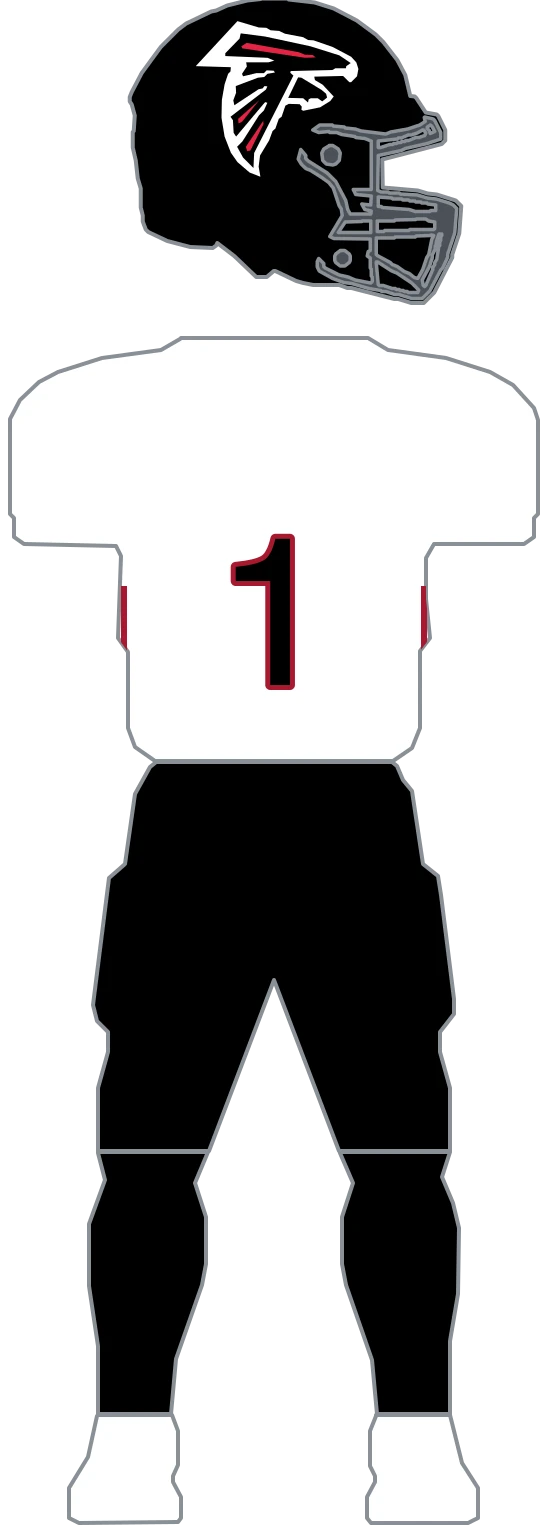
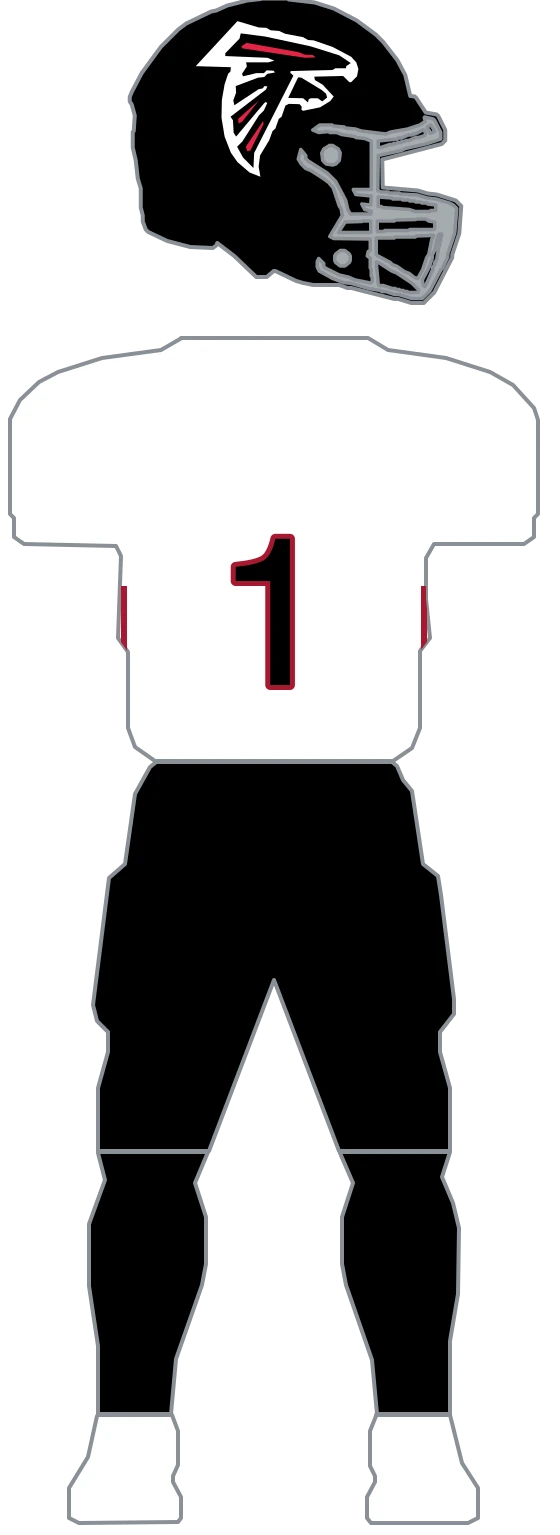
feat(uniforms): migrate Falcons to composable parts and set its silver facemask (#669)
All three Atlanta kits wear the same matte-black helmet (with the fixed
white/red/black falcon decal) and the same plain black pants; only the jersey
differs. The parts model makes each kit a combination instead of spelling every
layer out three times: 1 helmet (H1), 3 jerseys (J1 black, J2 white, J3 red),
1 pants (P1 black), with away's black shell/pants and red-alt's number body all
reaching the same palette entries the flat form reached through per-kit literals
and shifting primary/secondary/accent slots.

The migration's parity gate proved all 9 falcons rasters (3 kits x 2 variants)
byte-identical against the flat definition, then the flat definition and its
builder helpers were deleted and the team removed from MIGRATED, per the
one-time-proof lifecycle (depth#660).

Facemask follows the parts migration per phase order: the 2020 "back to black"
redesign's matte black helmet carries a silver/chrome cage, confirmed by the
GUD composite (which renders it as a mid-grey, as it faithfully renders
Seattle's and Cincinnati's black cages) and the atlantafalcons.com unveiling
("satin black... new silver/chrome facemask"). Set to Falcons silver
#A5ACAF (PMS 877 C). Only the three -full rasters move, and the change is
confined to the helmet region (verified pixel-diffed).

diff --git a/lib/uniforms/teams/falcons.ts b/lib/uniforms/teams/falcons.ts
@@ -1,17 +1,7 @@
-import type { ColorRef, TeamUniformDefinition, UniformLayer, UniformSurface } from './types';
-
-// Atlanta's three archived kits, redrawn from the Gridiron Uniform Database 2025 composite in
-// nfl-uniform-refs/falcons. Jersey paths use the outer 588-wide mannequin space; right paths
-// mirror the left across the jersey centerline x=294 (mirroredX = 588 - x).
-//
-// No helmet decal. The falcon mark is 28x34px in the reference — comparable to Chicago's C, which
-// traced cleanly — but it is thin swooping linework rather than a solid letterform, and it shreds
-// into disconnected strokes at that size the same way Seattle's keyline did. A bare shell beats an
-// illegible trace; the rule that keeps emerging is that solid shapes trace and thin lines do not.
-//
-// Atlanta's construction is the sparest of any team done so far: no sleeve bands, no shoulder
-// yoke, no contrasting collar, and plain pants. The only geometry is a thin red stripe down each
-// side seam of the torso, so every kit strips nearly the whole generic model.
+// Atlanta's construction geometry — the side-seam piping and the falcon decal paths only. The
+// composable parts definition that consumes them lives in ./falcons.parts.ts; the former flat
+// FALCONS_UNIFORMS was deleted in the migration that proved parts render byte-identically (see
+// parts-parity.test.ts for the one-time gate).
 
 // Black is a literal on the away and red-alt kits. Atlanta's away palette resolves secondary AND
 // accent to the same red (#A71930), so no token supplies the black shell and pants those kits
@@ -22,25 +12,6 @@ export const FALCONS_BLACK = '#000000';
 // from y=208 to the jersey hem (jersey top 126, sleeve hem 189).
 export const FALCONS_SIDE_STRIPE_LEFT = 'M141,631 H147 V806 H141 Z';
 export const FALCONS_SIDE_STRIPE_RIGHT = 'M441,631 H447 V806 H441 Z';
-
-const GENERIC_STRIPPED = [
-  'generic-helmet-stripe',
-  'generic-sleeve-yoke-left',
-  'generic-sleeve-yoke-right',
-  'generic-sleeve-stripe-left',
-  'generic-sleeve-stripe-right',
-  'generic-collar',
-  'generic-pants-stripe-left',
-  'generic-pants-stripe-right',
-];
-
-function sideStripes(fill: ColorRef): UniformLayer[] {
-  const shapes: { id: string; surface: UniformSurface; d: string }[] = [
-    { id: 'falcons-side-stripe-left', surface: 'jersey', d: FALCONS_SIDE_STRIPE_LEFT },
-    { id: 'falcons-side-stripe-right', surface: 'jersey', d: FALCONS_SIDE_STRIPE_RIGHT },
-  ];
-  return shapes.map((s): UniformLayer => ({ ...s, clip: true, kind: 'fill', fill }));
-}
 
 // Provenance: contour trace of the club's mark from the GUD composite — a reproduction
 // of a third-party mark, not original geometry. The mark is NON-FREE upstream
@@ -70,61 +41,3 @@ export const FALCONS_DECAL_BODY_PATH =
   'M361.4,134.8 L409.3,141.0 L500.4,160.6 L558.1,178.7 L581.0,194.1 L572.0,200.3 L571.3,204.5 L550.4,204.5 L544.2,208.0 L460.8,210.1 L460.1,213.6 L466.3,219.2 L387.8,374.0 L386.4,404.0 L365.6,383.1 L353.7,361.5 L364.2,351.0 L397.5,298.7 L407.3,288.9 L414.2,273.6 L410.0,272.2 L407.3,275.0 L351.7,341.2 L346.8,333.6 L345.4,308.5 L340.5,301.5 L411.4,247.1 L414.2,240.8 L408.6,240.1 L404.5,245.0 L396.8,246.4 L348.2,278.5 L346.1,268.7 L351.7,253.4 L351.0,240.1 L395.4,223.4 L408.0,222.0 L414.2,215.7 L429.5,212.9 L426.7,209.4 L412.8,208.7 L407.3,214.3 L392.0,214.3 L365.6,220.6 L363.5,215.7 L373.2,201.0 L371.8,192.7 L416.3,192.7 L428.1,189.2 L414.2,183.6 L330.1,180.1 L330.1,174.5 L358.6,145.2 L360.7,135.5 Z M476.1,222.7 L482.3,223.4 L522.6,247.8 L531.7,255.4 L533.7,263.1 L524.0,270.8 L515.0,264.5 L501.1,264.5 L496.9,266.6 L495.5,272.9 L485.8,264.5 L455.9,263.8 L475.4,223.4 Z';
 export const FALCONS_DECAL_STREAKS_PATH =
   'M372.5,153.6 L476.8,172.4 L489.3,177.3 L505.2,178.0 L510.8,182.9 L489.3,183.6 L364.2,164.8 L362.1,160.6 L371.8,154.3 Z M405.9,309.9 L406.6,316.1 L380.2,369.2 L373.9,370.5 L371.1,361.5 L405.2,310.6 Z M398.2,268.0 L363.5,311.9 L356.5,314.7 L355.8,305.7 L397.5,268.7 Z';
-
-// Fixed art on the black shell; nothing here moves with the palette.
-function decal(): UniformLayer[] {
-  return (
-    [
-      ['falcons-decal-silhouette', FALCONS_DECAL_SILHOUETTE_PATH, '#FFFFFF'],
-      ['falcons-decal-body', FALCONS_DECAL_BODY_PATH, FALCONS_BLACK],
-      ['falcons-decal-streaks', FALCONS_DECAL_STREAKS_PATH, FALCONS_DECAL_RED],
-    ] as [string, string, ColorRef][]
-  ).map(([id, d, fill]) => ({
-    id,
-    surface: 'helmet' as const,
-    d,
-    clip: true,
-    kind: 'fill' as const,
-    fill,
-  }));
-}
-
-export const FALCONS_UNIFORMS: TeamUniformDefinition = {
-  teamId: 'falcons',
-  kits: {
-    // ESPN gives Atlanta color=red / alternateColor=black. `isNeutral(black)` is true, so
-    // toTeamColors keeps primary as the red — and the generic model paints helmet, jersey AND
-    // pants from primary, rendering Atlanta head-to-toe red. The reference home kit is black on
-    // black. Pinning all three bodies to secondary fixes it while primary still supplies the red
-    // piping and numeral keyline. Same defect and same fix as Cincinnati and Pittsburgh; a sweep
-    // of all 32 teams found those three plus New Orleans and no others.
-    home: {
-      helmetColor: 'secondary',
-      jerseyColor: 'secondary',
-      pantsColor: 'secondary',
-      removeLayerIds: GENERIC_STRIPPED,
-      layers: [...sideStripes('primary'), ...decal()],
-      // White numerals with a thin red keyline — the generic width of 26 would ring them heavily.
-      number: { fill: '#FFFFFF', outline: 'primary', outlineWidth: 10 },
-    },
-    // White body over the black shell and black pants the reference shows. Neither is available as
-    // a token here (secondary and accent are both the red), hence the literals.
-    away: {
-      helmetColor: FALCONS_BLACK,
-      pantsColor: FALCONS_BLACK,
-      removeLayerIds: GENERIC_STRIPPED,
-      layers: [...sideStripes('secondary'), ...decal()],
-      number: { fill: FALCONS_BLACK, outline: 'secondary', outlineWidth: 10 },
-    },
-    // Red alternate — inferred, not measured: Atlanta did not wear a red jersey in 2025, so it is
-    // absent from the composite. This recolors the same construction onto the red body its curated
-    // palette describes. Treat as provisional until a red reference is available.
-    'red-alt': {
-      helmetColor: 'secondary',
-      pantsColor: 'secondary',
-      removeLayerIds: GENERIC_STRIPPED,
-      layers: [...sideStripes('accent'), ...decal()],
-      number: { fill: 'accent', outline: 'secondary', outlineWidth: 10 },
-    },
-  },
-};

diff --git a/lib/uniforms/teams/falcons.parts.ts b/lib/uniforms/teams/falcons.parts.ts
@@ -1,0 +1,113 @@
+// Atlanta authored as composable parts. Geometry is imported unchanged from falcons.ts — this
+// file only restates WHICH parts each kit combines, and names every color from the team palette
+// instead of the kit row's shifting primary/secondary/accent.
+//
+// What the flat definition was hiding: all three Atlanta kits wear the SAME helmet (black shell,
+// the fixed white/black/red falcon decal) and the SAME black pants, and differ only in the
+// jersey. The flat form spelled the helmet decal and the side-seam piping set out in every kit's
+// layer array, three times over.
+//
+// The away kit's black shell/pants come through a literal '#000000' in the flat form because its
+// curated palette resolves secondary AND accent to the brand red (#A71930); here it is one palette
+// entry shared by all three kits, and the question cannot arise.
+
+import {
+  FALCONS_DECAL_BODY_PATH,
+  FALCONS_DECAL_RED,
+  FALCONS_DECAL_SILHOUETTE_PATH,
+  FALCONS_DECAL_STREAKS_PATH,
+  FALCONS_SIDE_STRIPE_LEFT,
+  FALCONS_SIDE_STRIPE_RIGHT,
+} from './falcons';
+import { compileParts, type PartLayer, type TeamPartsDefinition, type UniformPart } from './parts';
+import type { UniformSurface } from './types';
+
+const fill = (id: string, surface: UniformSurface, d: string, color: string): PartLayer => ({
+  id,
+  surface,
+  d,
+  clip: true,
+  kind: 'fill',
+  fill: color,
+});
+
+// The side-seam piping pair, shared by every jersey.
+function sideStripes(color: string): PartLayer[] {
+  return [
+    fill('falcons-side-stripe-left', 'jersey', FALCONS_SIDE_STRIPE_LEFT, color),
+    fill('falcons-side-stripe-right', 'jersey', FALCONS_SIDE_STRIPE_RIGHT, color),
+  ];
+}
+
+// The falcon decal is fixed art on the black shell — nothing here moves with the palette, so it
+// lives entirely inside the (single) helmet part rather than being restated per kit. The black
+// shell's silver cage is the 2020 redesign's "back to black" facemask (see palette note).
+const HELMET_BLACK_FALCON: UniformPart = {
+  base: 'black',
+  facemask: 'silver',
+  layers: [
+    fill('falcons-decal-silhouette', 'helmet', FALCONS_DECAL_SILHOUETTE_PATH, 'white'),
+    fill('falcons-decal-body', 'helmet', FALCONS_DECAL_BODY_PATH, 'black'),
+    fill('falcons-decal-streaks', 'helmet', FALCONS_DECAL_STREAKS_PATH, 'decalRed'),
+  ],
+};
+
+// Home jersey: black body, red side piping, white numerals ringed in red (thin 10px keyline).
+const JERSEY_BLACK: UniformPart = {
+  base: 'black',
+  layers: sideStripes('red'),
+  number: { fill: 'white', outline: 'red', outlineWidth: 10 },
+};
+
+// Away jersey: white body, red side piping, black numerals ringed in red. The black number fill
+// is a literal in the flat form (no token supplies it on the away row); here it is the palette.
+const JERSEY_WHITE: UniformPart = {
+  base: 'white',
+  layers: sideStripes('red'),
+  number: { fill: 'black', outline: 'red', outlineWidth: 10 },
+};
+
+// Red alternate jersey: red body, white side piping, white numerals ringed in black. Inferred
+// construction (no red kit in the 2025 composite), same caveat as the flat form.
+const JERSEY_RED: UniformPart = {
+  base: 'red',
+  layers: sideStripes('white'),
+  number: { fill: 'white', outline: 'black', outlineWidth: 10 },
+};
+
+// Plain black pants. Atlanta's construction is the sparest of any team: no stripe, no band.
+const PANTS_BLACK: UniformPart = { base: 'black', layers: [] };
+
+export const FALCONS_PARTS: TeamPartsDefinition = {
+  teamId: 'falcons',
+  // Jersey hexes from the curated rows (teamcolorcodes); the away and red-alt rows share this
+  // same palette through different primary/secondary/accent slots, which is the point. `silver`
+  // is the facemask color only — the 2020 "back to black" redesign's matte shell carries a
+  // silver/chrome cage (atlantafalcons.com unveiling, 2020; still current in the 2026 redesign),
+  // and the GUD composite renders it as the mid-grey #909090 at 8-bit. Silver is Falcons silver
+  // PMS 877 C / #A5ACAF (teamcolorcodes).
+  palette: {
+    black: '#000000',
+    white: '#FFFFFF',
+    // The brand red trailing the side piping and numerals — the same physical color whether it
+    // reaches home through 'primary' or away/red-alt through their own tokens.
+    red: '#A71930',
+    // The decal's red streak, a fixed-art sampled color distinct from the jersey red.
+    decalRed: FALCONS_DECAL_RED,
+    silver: '#A5ACAF',
+  },
+  helmets: { 'black-falcon': HELMET_BLACK_FALCON },
+  jerseys: {
+    black: JERSEY_BLACK,
+    white: JERSEY_WHITE,
+    red: JERSEY_RED,
+  },
+  pants: { black: PANTS_BLACK },
+  kits: {
+    home: { helmet: 'black-falcon', jersey: 'black', pants: 'black' },
+    away: { helmet: 'black-falcon', jersey: 'white', pants: 'black' },
+    'red-alt': { helmet: 'black-falcon', jersey: 'red', pants: 'black' },
+  },
+};
+
+export const FALCONS_UNIFORMS_FROM_PARTS = compileParts(FALCONS_PARTS);

diff --git a/lib/uniforms/teams/index.ts b/lib/uniforms/teams/index.ts
@@ -13,7 +13,7 @@ import { COMMANDERS_UNIFORMS } from './commanders';
 import { COWBOYS_UNIFORMS } from './cowboys';
 import { DOLPHINS_UNIFORMS } from './dolphins';
 import { EAGLES_UNIFORMS } from './eagles';
-import { FALCONS_UNIFORMS } from './falcons';
+import { FALCONS_UNIFORMS_FROM_PARTS } from './falcons.parts';
 import { GIANTS_UNIFORMS } from './giants';
 import { JAGUARS_UNIFORMS } from './jaguars';
 import { JETS_UNIFORMS } from './jets';
@@ -53,7 +53,7 @@ const DEFINITIONS: Readonly<Partial<Record<string, TeamUniformDefinition>>> = {
   dolphins: DOLPHINS_UNIFORMS,
   '49ers': NINERS_UNIFORMS,
   eagles: EAGLES_UNIFORMS,
-  falcons: FALCONS_UNIFORMS,
+  falcons: FALCONS_UNIFORMS_FROM_PARTS,
   giants: GIANTS_UNIFORMS,
   jaguars: JAGUARS_UNIFORMS,
   jets: JETS_UNIFORMS,
